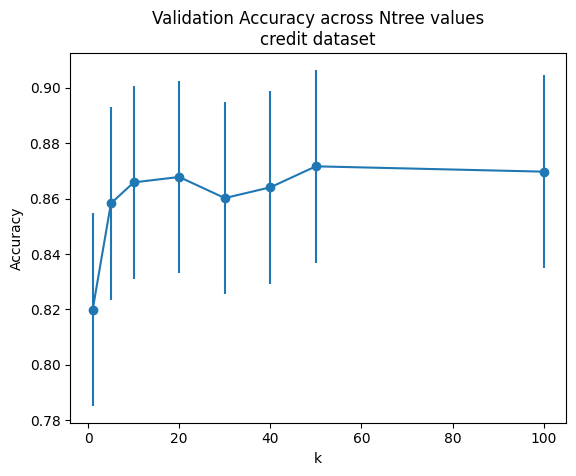
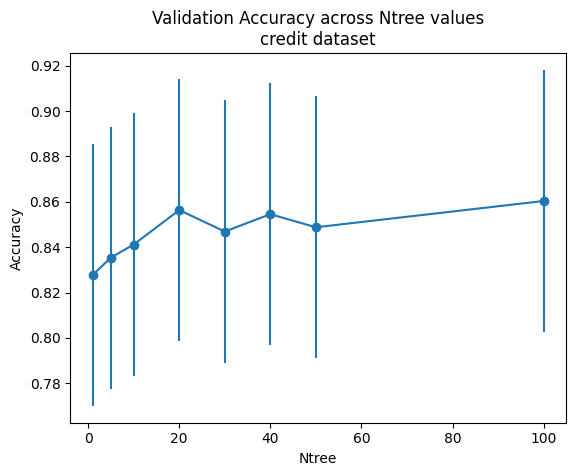
Fixing plot labels for random forest

diff --git a/experiments/credit/rf_credit.py b/experiments/credit/rf_credit.py
@@ -38,5 +38,5 @@ ntree_accuracies, ntree_f1s  = random_forest_cross_validation(N_TREES, random_fo
 
 results_dir = "results/"
 results_to_csv(N_TREES, ntree_accuracies, ntree_f1s, results_dir + "credit-rf-ntree-results.csv")
-plot_k_val_results(N_TREES, ntree_accuracies, "Accuracy", "Validation Accuracy across Ntree values", results_dir + " credit-rf-ntree-val-accuracies.png", "credit dataset")
-plot_k_val_results(N_TREES, ntree_f1s, "F1 Score", "Validation F1 scores across Ntree values", results_dir + "credit-rf-ntree-val-f1.png", "credit dataset")    
+plot_k_val_results(N_TREES, ntree_accuracies, "Accuracy", "Validation Accuracy across Ntree values", results_dir + " credit-rf-ntree-val-accuracies.png", "credit dataset", "Ntree")
+plot_k_val_results(N_TREES, ntree_f1s, "F1 Score", "Validation F1 scores across Ntree values", results_dir + "credit-rf-ntree-val-f1.png", "credit dataset", "Ntree")    

diff --git a/experiments/digits/rf_digits.py b/experiments/digits/rf_digits.py
@@ -38,5 +38,5 @@ ntree_accuracies, ntree_f1s  = random_forest_cross_validation(N_TREES, random_fo
 
 results_dir = "results/"
 results_to_csv(N_TREES, ntree_accuracies, ntree_f1s, results_dir + "digits-rf-ntree-results.csv")
-plot_k_val_results(N_TREES, ntree_accuracies, "Accuracy", "Validation Accuracy across Ntree values", results_dir + " digits-rf-ntree-val-accuracies.png", "digits dataset")
-plot_k_val_results(N_TREES, ntree_f1s, "F1 Score", "Validation F1 scores across Ntree values", results_dir + "digits-rf-ntree-val-f1.png", "digits dataset")    
+plot_k_val_results(N_TREES, ntree_accuracies, "Accuracy", "Validation Accuracy across Ntree values", results_dir + "digits-rf-ntree-val-accuracies.png", "digits dataset", "Ntree")
+plot_k_val_results(N_TREES, ntree_f1s, "F1 Score", "Validation F1 scores across Ntree values", results_dir + "digits-rf-ntree-val-f1.png", "digits dataset", "Ntree")    

diff --git a/src/utils/plotting.py b/src/utils/plotting.py
@@ -4,7 +4,7 @@ import pandas as pd
 import seaborn as sns
 
 # Plot mean accuracies for a set of k values
-def plot_k_val_results(k_choices, k_vals, metric:str, title:str, image_name:str, sub_title:str=None):
+def plot_k_val_results(k_choices, k_vals, metric:str, title:str, image_name:str, sub_title:str=None, x_label="k"):
     mean_vals = []
     std_devs = []
     for k in k_choices:
@@ -23,7 +23,7 @@ def plot_k_val_results(k_choices, k_vals, metric:str, title:str, image_name:str,
     if sub_title is not None:
         title += f'\n{sub_title}'
     plt.title(title)
-    plt.xlabel('k')
+    plt.xlabel(x_label)
     plt.ylabel(metric)
     # Save for later
     plt.savefig(image_name, bbox_inches='tight')
